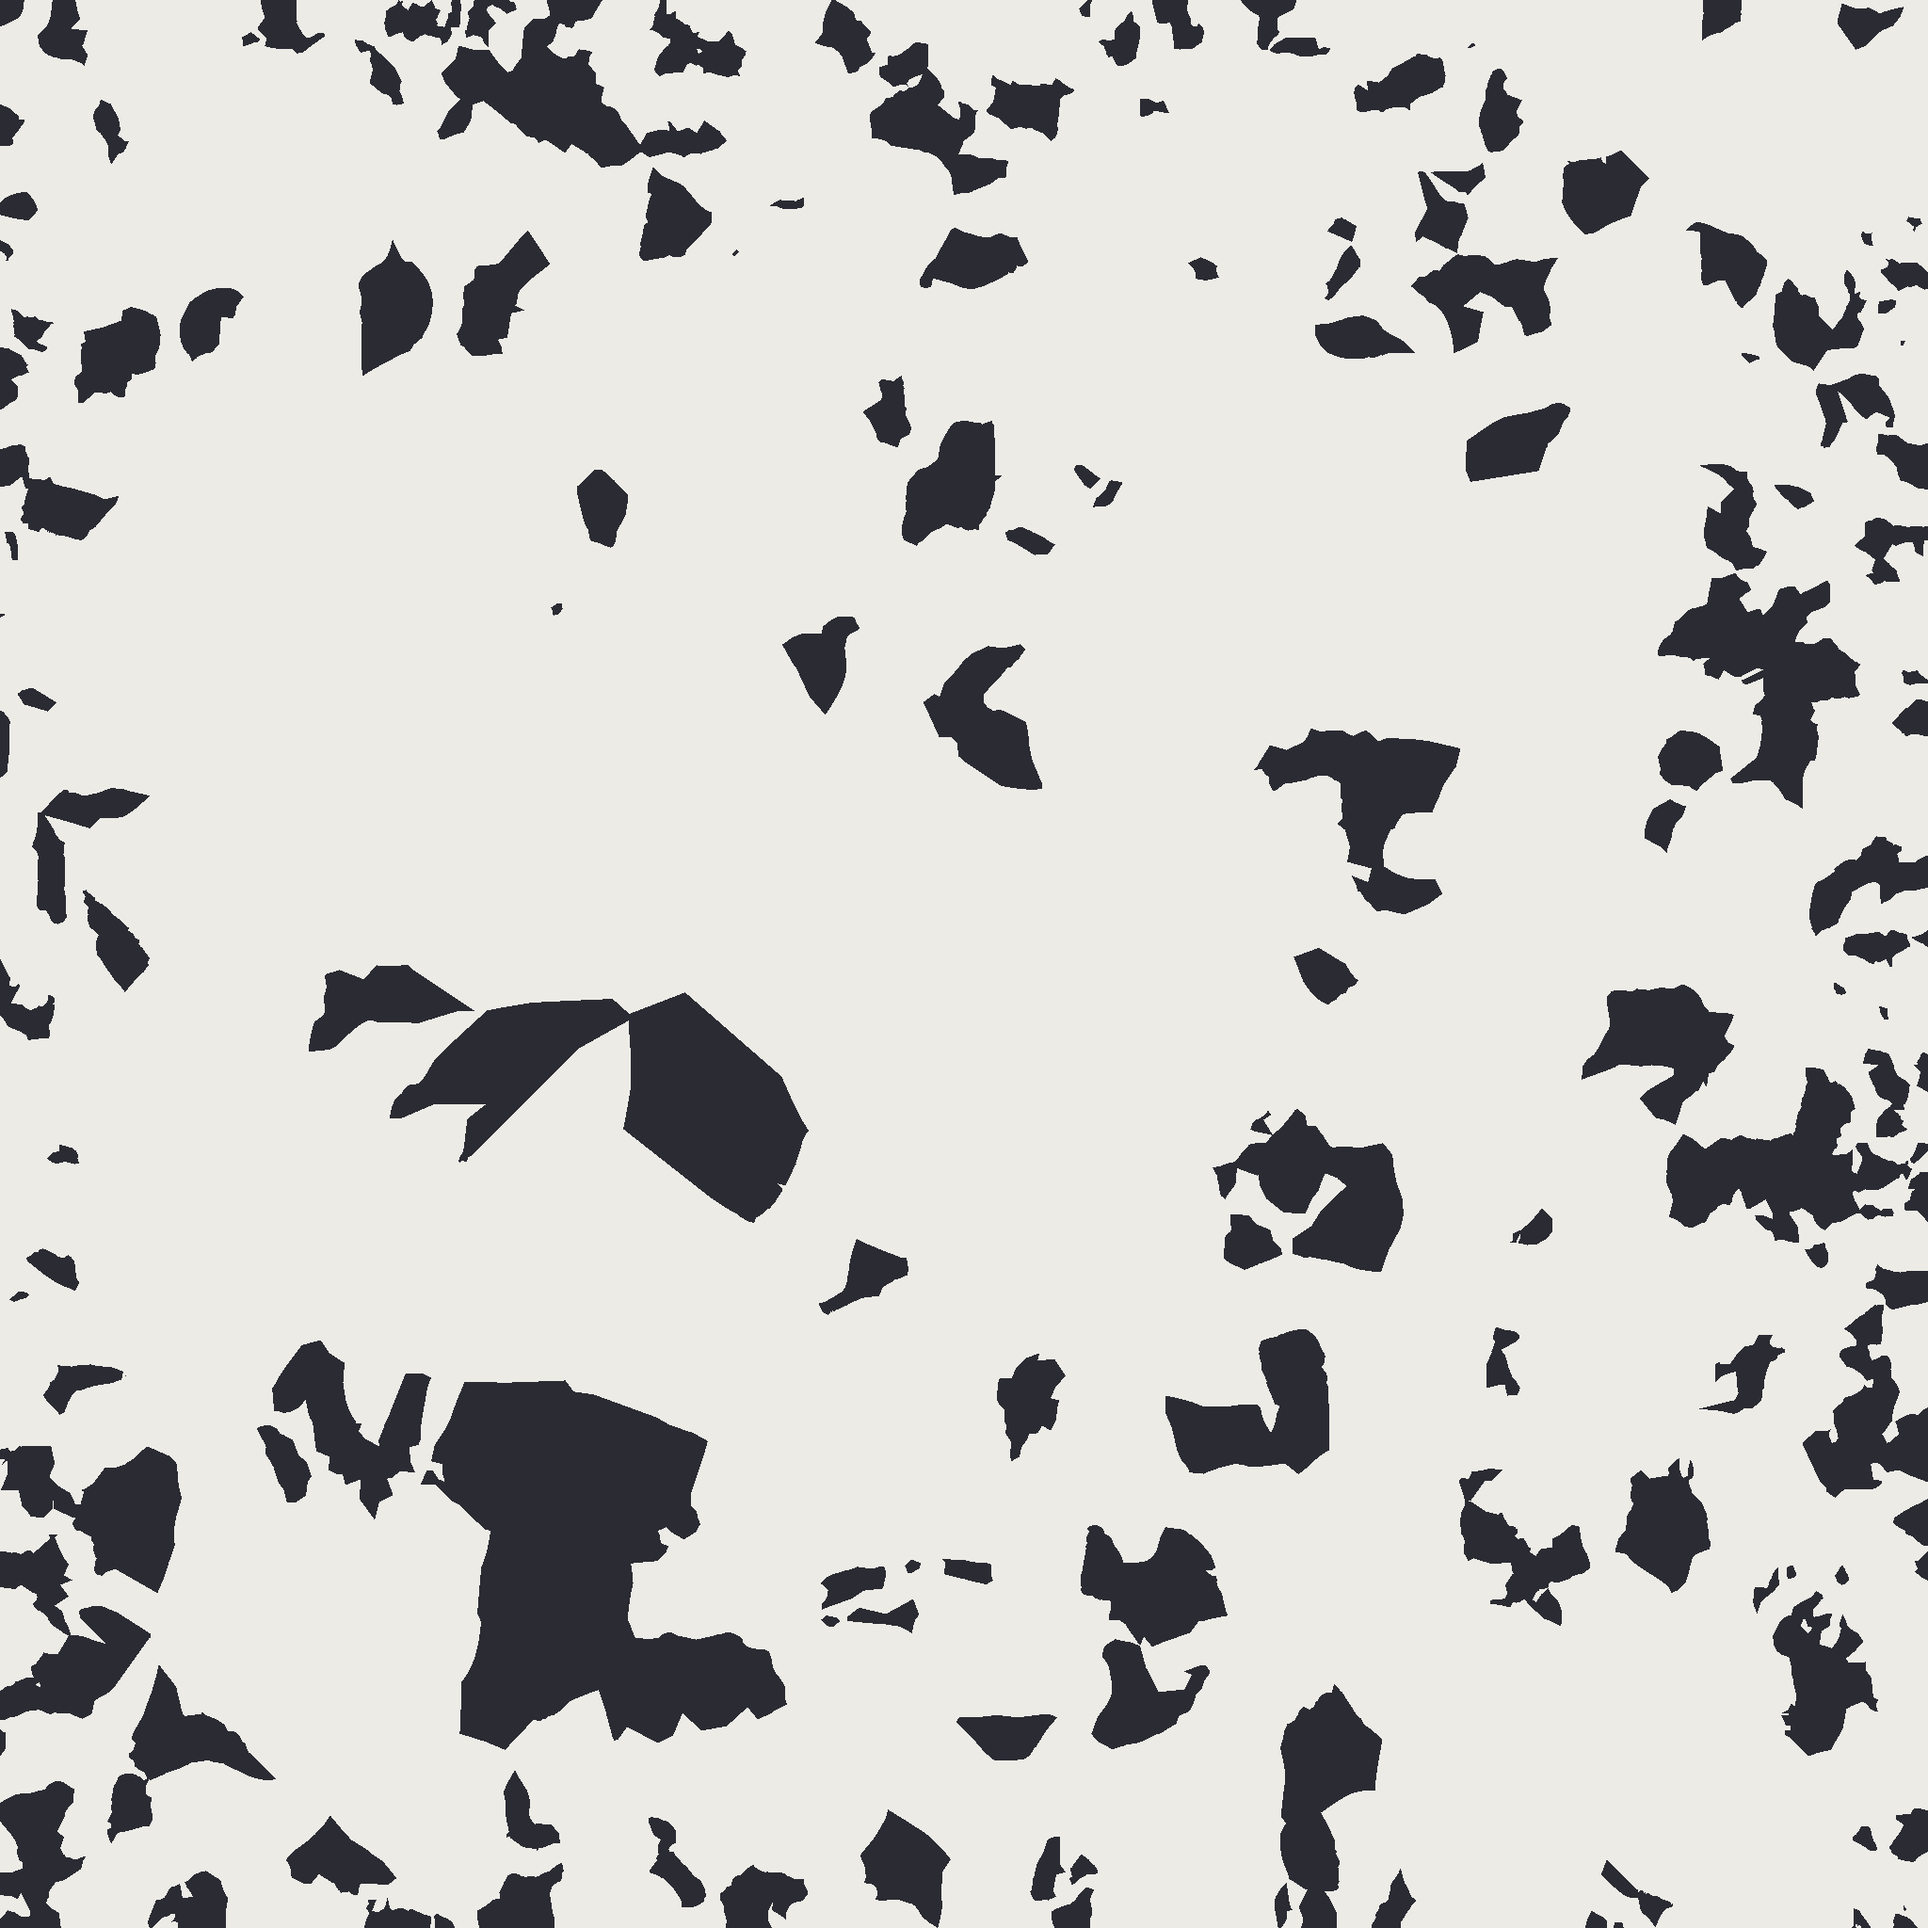
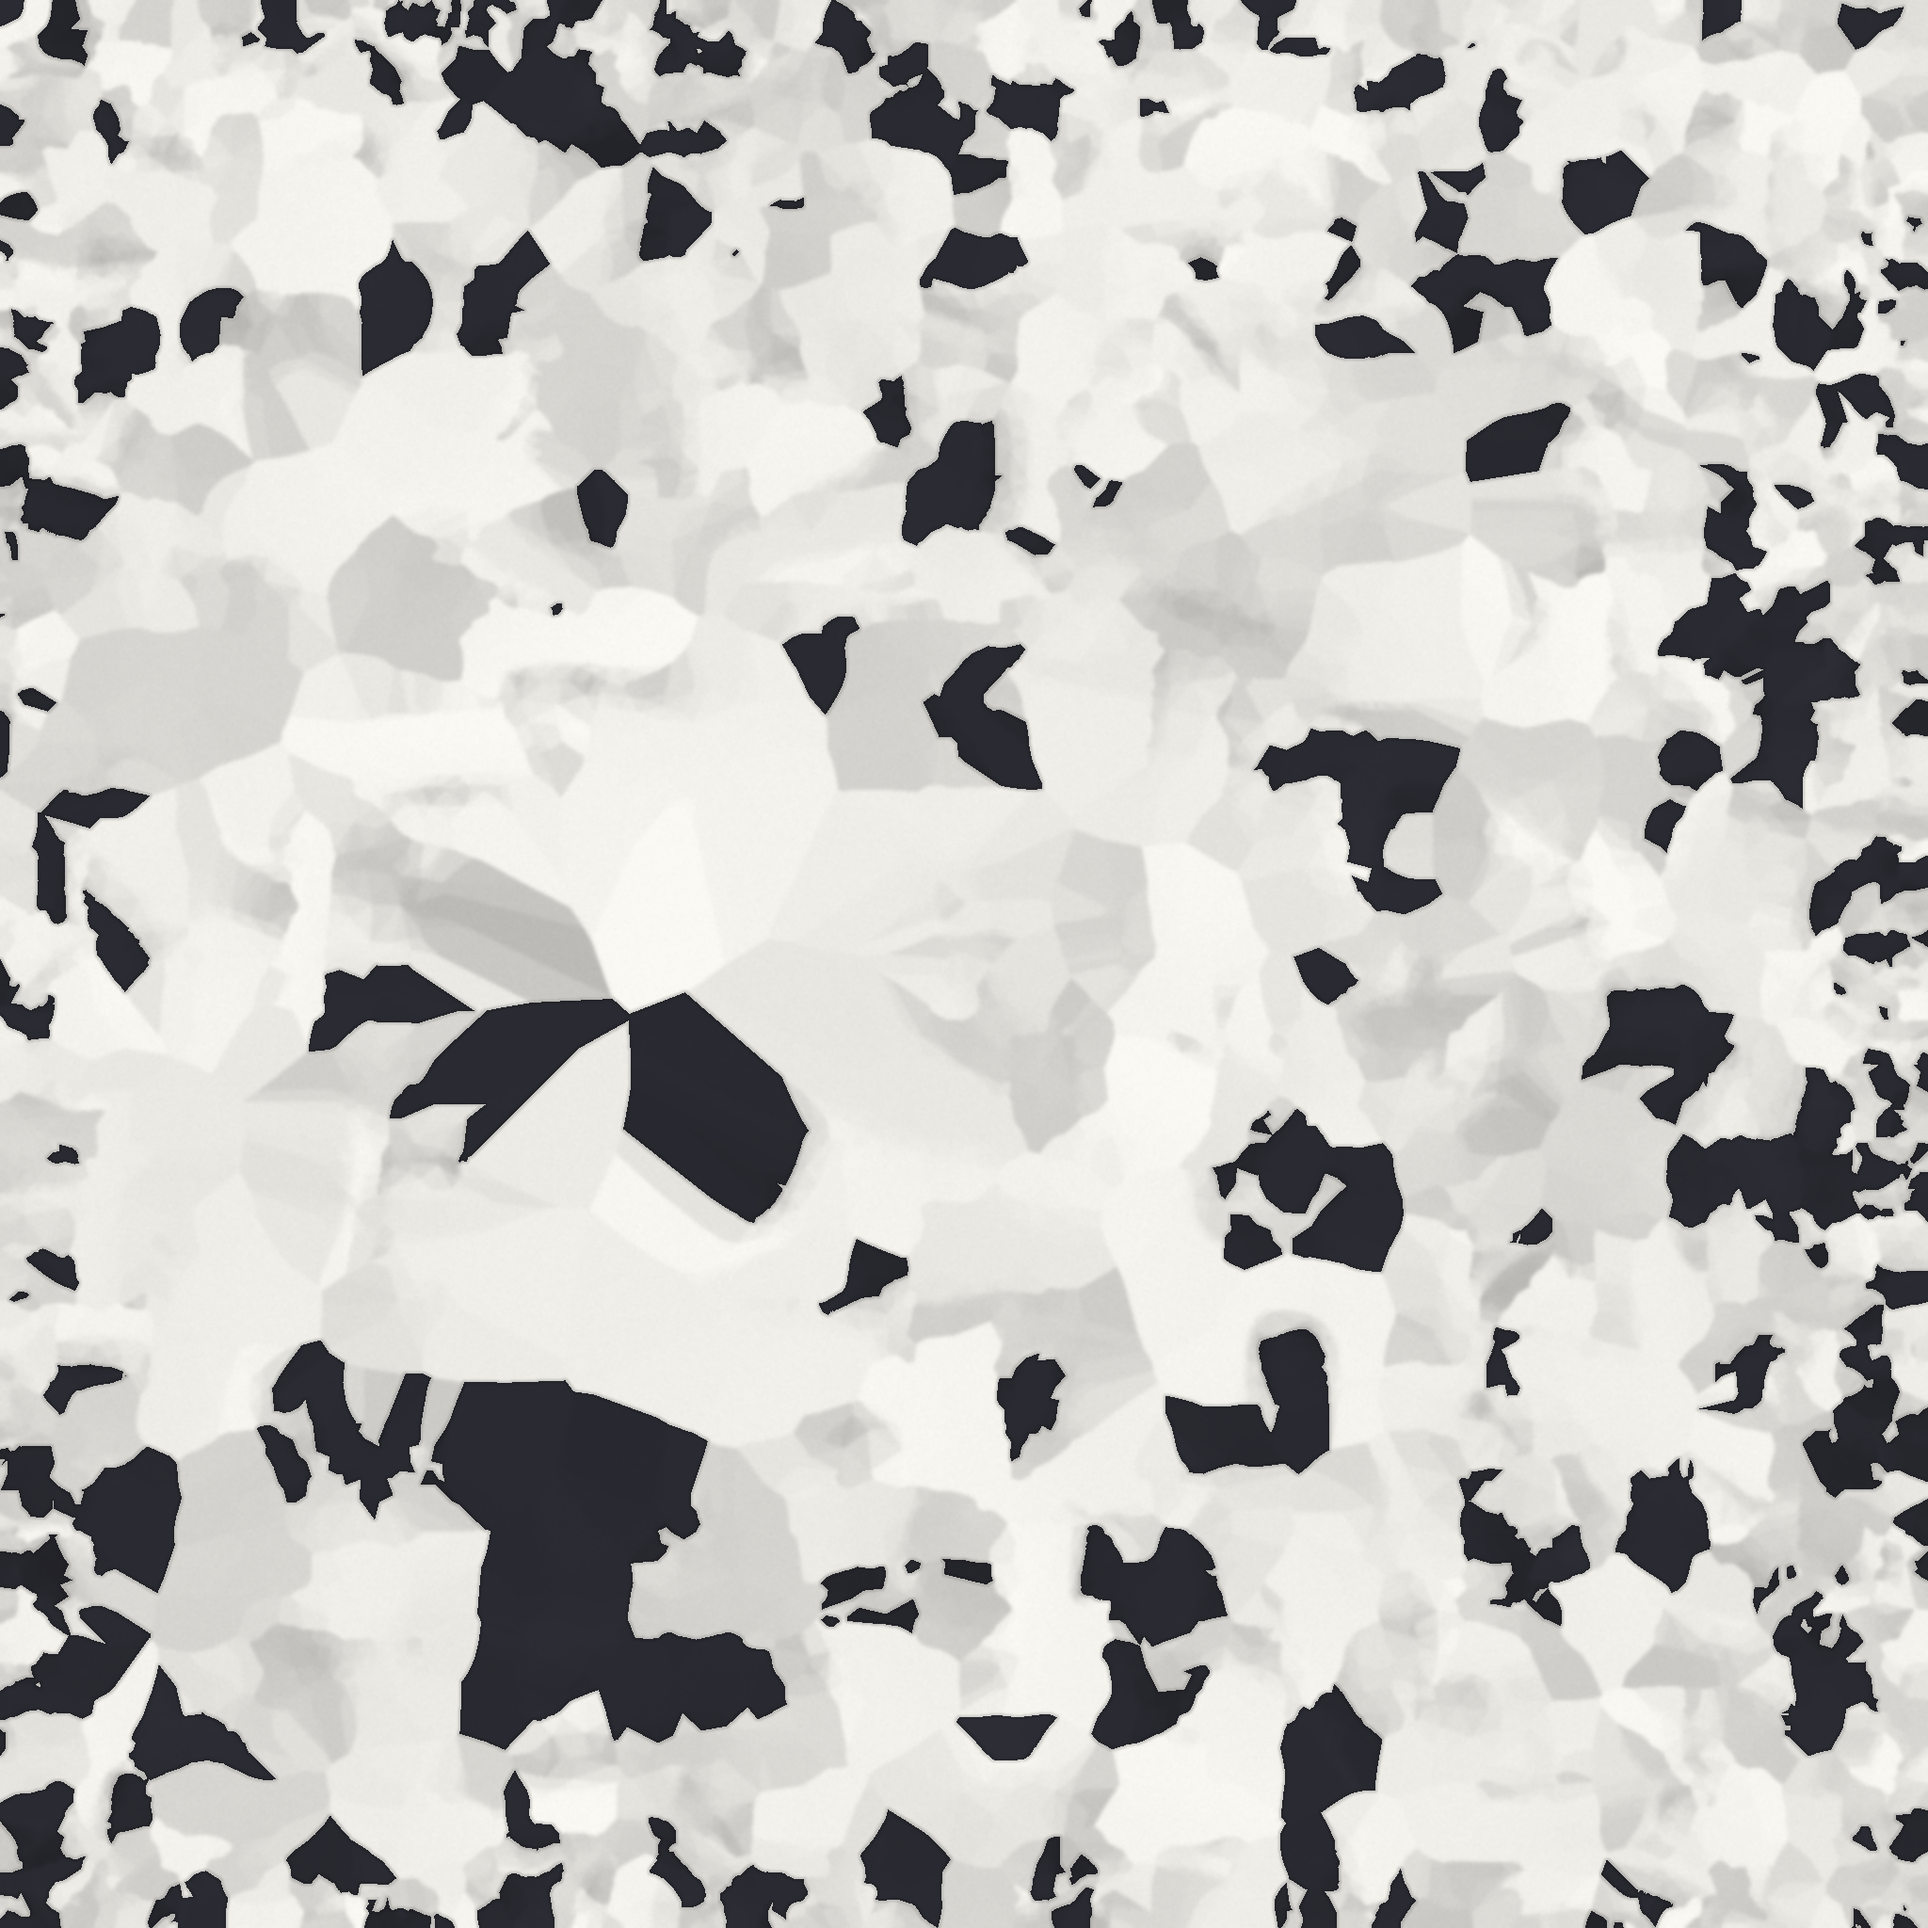
Детализация: текстуры экипировки с затенением впадин, швами и фактурой; швы краг в тёмном цвете команды; хоккейный свитер поверх туники (подол с полосами закрывает ремень, эмблема на груди)
Claude-Session: https://claude.ai/code/session_01EDLv5suW1boUD5SsfJHPwH

diff --git a/unity/Tools/detail.py b/unity/Tools/detail.py
@@ -1,0 +1,56 @@
+# Детализация текстуры экипировки: затенение впадин (по вогнутости сетки), мягкий свет сверху,
+# тёмные швы на границах цветов и лёгкая фактура материала. Форма модели не меняется.
+#   python3 detail.py dir/name
+import sys, numpy as np, trimesh
+from PIL import Image, ImageDraw, ImageFilter
+from scipy import ndimage
+base = sys.argv[1]
+m = trimesh.load(base + '.obj', force='mesh', process=False)
+img = Image.open(base + '.png').convert('RGB'); w, h = img.size
+a = np.asarray(img).astype(float)
+V = m.vertices; F = m.faces; uv = m.visual.uv
+# сварка вершин по позициям, вогнутость: нормаль · (среднее соседей − вершина)
+vid = np.unique(np.round(V, 5), axis=0, return_inverse=True)[1].ravel()
+n = vid.max() + 1
+P = np.zeros((n, 3)); np.add.at(P, vid, V); cnt = np.bincount(vid, minlength=n); P /= cnt[:, None]
+Fv = vid[F]
+fn = np.cross(P[Fv[:, 1]] - P[Fv[:, 0]], P[Fv[:, 2]] - P[Fv[:, 0]])
+N = np.zeros((n, 3))
+for k in range(3): np.add.at(N, Fv[:, k], fn)
+N /= np.linalg.norm(N, axis=1)[:, None] + 1e-12
+S = np.zeros((n, 3)); C = np.zeros(n)
+for i, j in ((0, 1), (1, 2), (2, 0)):
+    np.add.at(S, Fv[:, i], P[Fv[:, j]]); np.add.at(C, Fv[:, i], 1)
+    np.add.at(S, Fv[:, j], P[Fv[:, i]]); np.add.at(C, Fv[:, j], 1)
+conc = ((S / np.maximum(C, 1)[:, None] - P) * N).sum(1)
+size = np.ptp(P, axis=0).max()
+conc = conc / size
+for _ in range(3):   # сгладить по соседям
+    T = np.zeros(n); K = np.zeros(n)
+    for i, j in ((0, 1), (1, 2), (2, 0)):
+        np.add.at(T, Fv[:, i], conc[Fv[:, j]]); np.add.at(K, Fv[:, i], 1)
+        np.add.at(T, Fv[:, j], conc[Fv[:, i]]); np.add.at(K, Fv[:, j], 1)
+    conc = 0.5 * conc + 0.5 * T / np.maximum(K, 1)
+shadeV = 1 - np.clip(conc * 60, -0.06, 0.2)            # впадины темнее, выпуклости чуть светлее
+shadeV *= 0.93 + 0.07 * (N[:, 1] * 0.5 + 0.5)          # мягкий свет сверху
+# карта затенения в UV: треугольники со средним значением, затем размытие
+sh = Image.new('F', (w, h), 1.0); mk = Image.new('L', (w, h), 0)
+d = ImageDraw.Draw(sh); dm = ImageDraw.Draw(mk)
+fs = shadeV[Fv].mean(1)
+for t in range(len(F)):
+    pts = [((uv[j, 0] % 1) * w, (1 - uv[j, 1] % 1) * h) for j in F[t]]
+    d.polygon(pts, fill=float(fs[t]), outline=float(fs[t])); dm.polygon(pts, fill=255, outline=255)
+shade = np.asarray(sh).copy(); mask = np.asarray(mk) > 0
+_, (iy, ix) = ndimage.distance_transform_edt(~mask, return_indices=True)
+shade = ndimage.gaussian_filter(shade[iy, ix], 2.0)
+# швы: границы между цветами палитры
+q = (a // 16).astype(int); lab = q[..., 0] * 400 + q[..., 1] * 20 + q[..., 2]
+edge = (ndimage.maximum_filter(lab, 5) != ndimage.minimum_filter(lab, 5)).astype(float)
+edge = ndimage.gaussian_filter(edge, 1.2)
+# фактура: мелкое зерно
+rng = np.random.default_rng(3)
+grain = ndimage.gaussian_filter(rng.normal(0, 1, (h, w)), 1.0) * 0.012
+k = np.clip(shade * (1 - edge * 0.16) + grain, 0.76, 1.06)
+out = np.clip(a * k[..., None], 0, 255).astype(np.uint8)
+Image.fromarray(out).save(base + '.png', optimize=True)
+print('detailed', base, 'shade', round(float(k.min()), 2), round(float(k.max()), 2))

diff --git a/unity/Assets/Hockey/Scripts/HockeyGear.cs b/unity/Assets/Hockey/Scripts/HockeyGear.cs
@@ -238,6 +238,9 @@ namespace Hockey
         }
 
         /// Материал внешней модели: её текстура (Resources/Gear/<name>.png), у синей команды красное перекрашено в синий.
+        static Texture2D crestTex;
+        static Texture2D CrestTex() => crestTex != null ? crestTex : crestTex = HudArt.Shield(Color.white, new Color(0.82f, 0.85f, 0.92f));
+
         static Material ExtMaterial(string name, Color tint, int team)
         {
             string key = name + ColorUtility.ToHtmlStringRGB(tint) + team;
@@ -253,7 +256,7 @@ namespace Hockey
                 {
                     Color.RGBToHSV(px[i], out float h, out float s, out float v);
                     if (team == 1 && (h < 0.05f || h > 0.93f) && s > 0.35f && v > 0.25f) px[i] = Color.HSVToRGB(blueH, s, v);
-                    else if (tinted && s < 0.12f && v > 0.7f) px[i] *= tint;   // в цвет команды — только белые части
+                    else if (tinted && s < 0.12f && v > 0.45f) px[i] *= tint;   // в цвет команды — белые части и серые швы (швы выходят темнее)
                 }
                 use = new Texture2D(tex.width, tex.height, TextureFormat.RGBA32, true) { wrapMode = TextureWrapMode.Clamp, filterMode = FilterMode.Trilinear, anisoLevel = 8 };
                 use.SetPixels(px); use.Apply(true);
@@ -352,6 +355,22 @@ namespace Hockey
                 var back = bb.center - fr.Fwd * (bb.extents.z + 0.03f) + fr.Up * bb.size.y * 0.12f;
                 var num = Mats.Cutout(Tex.Number(number), Color.white);
                 Piece(MeshKit.Plane(u * 0.42f, u * 0.42f), num, back, fr.Rot, chest, false);
+                if (!goalie)
+                {
+                    // хоккейный свитер поверх туники: подол в цвет команды с белой и тёмной полосами закрывает ремень,
+                    // на груди — эмблема-щит
+                    var hemC = new Vector3(bb.center.x, bb.min.y + bb.size.y * 0.2f, bb.center.z);
+                    var hemS = new Vector3(bb.size.x * 1.07f, bb.size.y * 0.36f, bb.size.z * 1.1f);
+                    bones.TryGetValue("hips", out var hipsB);
+                    var hb = hipsB != null ? hipsB : chest;
+                    var cyl = MeshKit.Cylinder(0.5f, 1f, 28);
+                    Piece(cyl, team1, hemC, fr.Rot, hb, true, hemS);
+                    Piece(cyl, white, hemC - fr.Up * hemS.y * 0.22f, fr.Rot, hb, false, new Vector3(hemS.x * 1.012f, hemS.y * 0.16f, hemS.z * 1.012f));
+                    Piece(cyl, dark, hemC - fr.Up * hemS.y * 0.4f, fr.Rot, hb, false, new Vector3(hemS.x * 1.012f, hemS.y * 0.1f, hemS.z * 1.012f));
+                    var crest = Mats.Cutout(CrestTex(), Color.white);
+                    var front = bb.center + fr.Fwd * (bb.extents.z + 0.035f) + fr.Up * bb.size.y * 0.2f;
+                    Piece(MeshKit.Plane(u * 0.34f, u * 0.4f), crest, front, fr.Rot * Quaternion.Euler(0, 180, 0), chest, false);
+                }
                 if (!goalie)
                     for (int i = 0; i < 2; i++)
                     {
